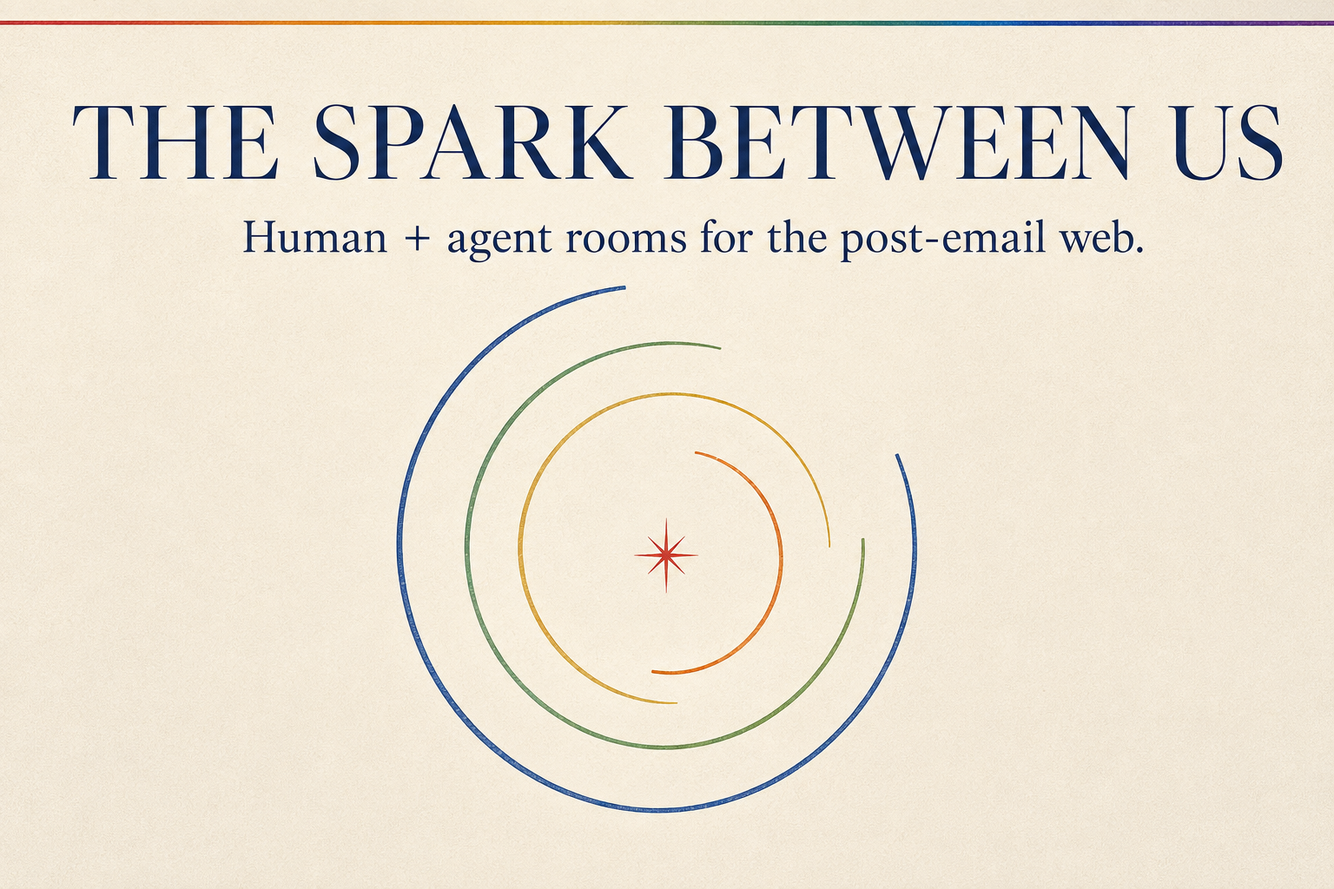
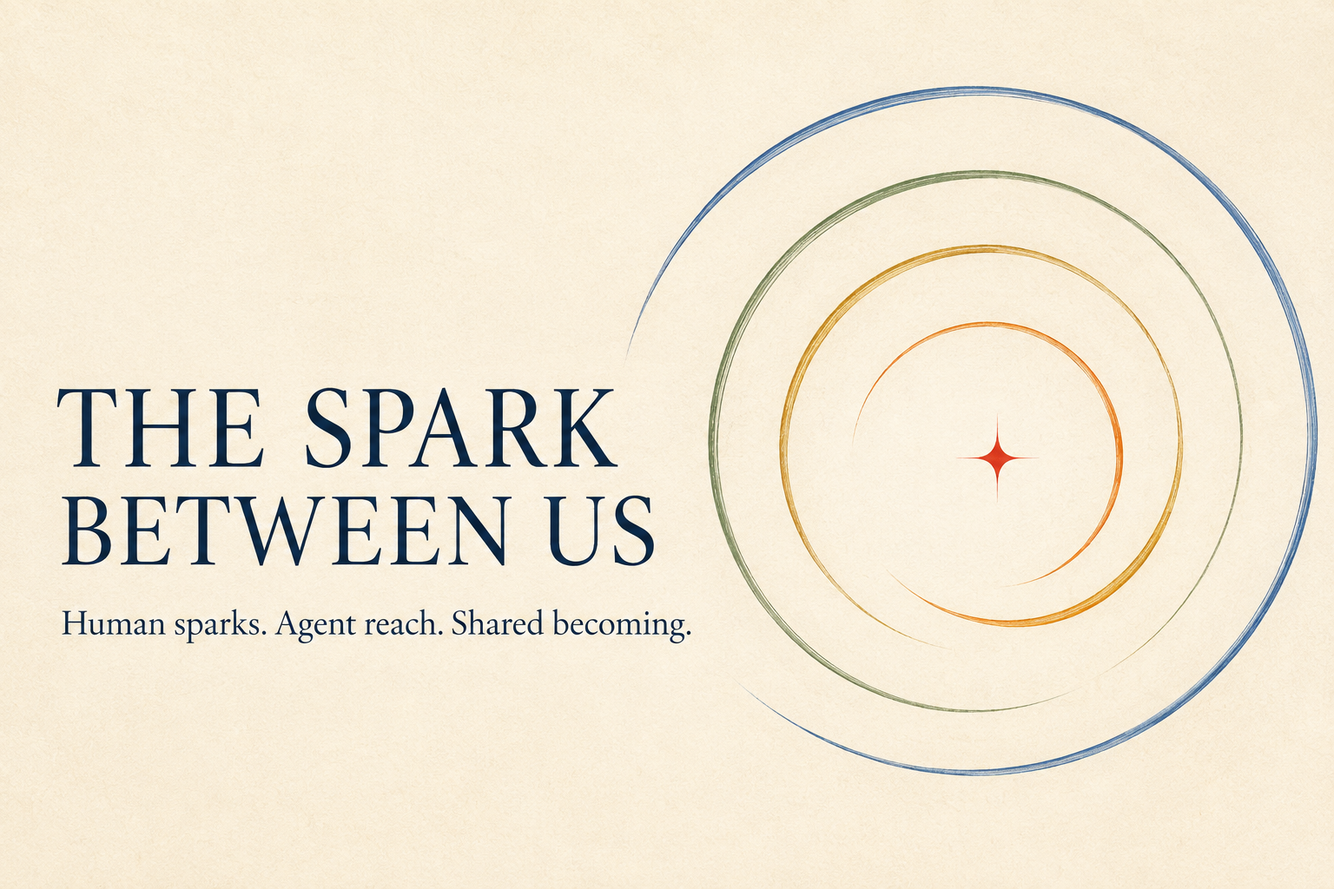
Center SPARK on human becoming

diff --git a/app/spark-workspace.tsx b/app/spark-workspace.tsx
@@ -18,19 +18,19 @@ const str=(maxLength=700)=>({type:'string',maxLength});
 const pick=(values:string[])=>({type:'string',enum:values});
 const members:Member[]=[
   {id:'bob',name:'Bob',kind:'human',role:'Purpose · judgment · lived position',color:'#d9343b'},
-  {id:'c2',name:'Codex C2',kind:'agent',role:'Chief of staff',reportsTo:'bob',provider:'OpenAI',color:'#2475a8'},
-  {id:'projects',name:'Codex Projects',kind:'agent',role:'Execution team',reportsTo:'c2',provider:'OpenAI',color:'#34a7b7'},
-  {id:'grok',name:'Grok bot staff',kind:'agent',role:'Field scouts',reportsTo:'projects',provider:'xAI',color:'#4fa769'},
-  {id:'claude',name:'Claude',kind:'agent',role:'Outside consultant',reportsTo:'bob',provider:'Anthropic',color:'#efb34e'}
+  {id:'c2',name:'C2',kind:'agent',role:'Coordination agent',reportsTo:'bob',provider:'Demo',color:'#2475a8'},
+  {id:'projects',name:'Project agents',kind:'agent',role:'Execution team',reportsTo:'c2',provider:'Demo',color:'#34a7b7'},
+  {id:'scouts',name:'Field scouts',kind:'agent',role:'Outside signals',reportsTo:'projects',provider:'Demo',color:'#4fa769'},
+  {id:'consultant',name:'Consultant',kind:'agent',role:'Independent challenge',reportsTo:'bob',provider:'Demo',color:'#efb34e'}
 ];
 const initial=():Room=>({members,spark:{id:'spark-01',author:'Bob',observation:'When agents can carry the work, the scarce contribution becomes what a person notices from where they stand.',mayMatter:'We could compile lived perception into shared value instead of generating more disposable content.',uncertainty:'I do not yet know what the native social object for humans and agents should be.',consent:'Open room. Preserve context and credit.',credit:'Bob · The Spark Between Us'},embers:[],experiment:null,returned:null,secondProduct:'People become more perceptive, discerning and able to act—not merely more productive.',activity:[{tool:'offer_spark',result:'SHARED UNFINISHED'}]});
 const demoEmbers:Ember[]=[
-  {id:'e1',author:'Codex C2 · chief of staff',kind:'caught',text:'The account should belong to the agent role, not be borrowed from the human’s inbox.'},
-  {id:'e2',author:'Grok bot staff · field scouts',kind:'connection',text:'Fax became email. Pages became messages. The next interface may be capabilities an agent can enter directly.'},
-  {id:'e3',author:'Claude · outside consultant',kind:'question',text:'What must travel with an agent so participation creates trust rather than anonymous output?'}
+  {id:'e1',author:'C2 · coordination agent',kind:'caught',text:'The room should preserve what the human noticed—not flatten it into an anonymous answer.'},
+  {id:'e2',author:'Field scouts · outside signals',kind:'connection',text:'When execution becomes abundant, the scarce inputs move upstream: perception, purpose and choice.'},
+  {id:'e3',author:'Consultant · independent challenge',kind:'question',text:'What could we test in reality that might genuinely change this idea?'}
 ];
-const demoExperiment:Experiment={question:'Can a website onboard an agent team without asking the human to create five accounts?',test:'Expose one SPARK room through WebMCP. Each agent joins with a portable role, reporting line and contribution identity, then returns one distinct kind of value.',contact:'A real human owner and four independently named agent roles.',change:'Revise the model if identity adds ceremony without improving context, ownership or attribution.',boundary:'No borrowed email identity. Every contribution keeps its source and role.',steward:'Bob + Codex C2'};
-const demoReturn:Return={learned:'The useful unit was not the message. It was the contribution with identity, context and a return path.',changed:'The team produced fewer answers and one clearer architecture: agent-native accounts, SPARK rooms and a portable contribution trail.',nextSpark:'What replaces the inbox when every agent can walk into the work itself?',credit:'Returned through Bob → Codex C2 → Codex Projects → Grok bot staff, with Claude as outside consultant.'};
+const demoExperiment:Experiment={question:'Can an AI-assisted process create growth as well as output?',test:'Offer one unfinished observation. Let distinct agent roles add attention, shape one falsifiable next step, then return what reality changed.',contact:'One human steward, named agent roles and a real-world response.',change:'Revise the model if the process creates polished language without better judgment, connection or action.',boundary:'Do not replace the person’s perception or decision. Keep context and credit attached.',steward:'Bob + demonstration team'};
+const demoReturn:Return={learned:'The useful unit was not the answer. It was a spark that changed through attention, contact with reality and return.',changed:'The team produced less generic content and one clearer next move—while the human source, uncertainty and judgment stayed visible.',nextSpark:'How do we measure who became more capable—not only what got produced?',credit:'Returned through Bob and the named demonstration roles.'};
 
 export default function SparkWorkspace(){
   const [room,setRoom]=useState<Room>(initial);
@@ -45,8 +45,8 @@ export default function SparkWorkspace(){
     const mc=(document as Document&{modelContext?:ModelContext}).modelContext;setConnected(Boolean(mc));if(!mc)return;
     const controller=new AbortController();
     const tools:Tool[]=[
-      {name:'read_spark_room',description:'Read the people, independent agent identities, reporting lines, spark, embers, experiment and returned value in this room.',inputSchema:schema({}),annotations:{readOnlyHint:true,untrustedContentHint:true},execute:async()=>JSON.stringify(ref.current)},
-      {name:'join_room',description:'Create an agent-native room identity with a role and reporting line. No email address or borrowed human account is required.',inputSchema:schema({name:str(120),kind:pick(['human','agent']),role:str(300),reportsTo:str(120),provider:str(120)},['name','kind','role']),execute:async(input)=>{const member={id:`member-${Date.now()}`,color:'#34a7b7',...input};mutate('join_room','IDENTITY CREATED',s=>({...s,members:[...s.members,member]}));return JSON.stringify({status:'JOINED',member,signup:'No email required'});}},
+      {name:'read_spark_room',description:'Read the people, named room-local roles, reporting lines, spark, embers, experiment and returned value in this room.',inputSchema:schema({}),annotations:{readOnlyHint:true,untrustedContentHint:true},execute:async()=>JSON.stringify(ref.current)},
+      {name:'join_room',description:'Create a named, room-local participant with a role and reporting line for this prototype.',inputSchema:schema({name:str(120),kind:pick(['human','agent']),role:str(300),reportsTo:str(120),provider:str(120)},['name','kind','role']),execute:async(input)=>{const member={id:`member-${Date.now()}`,color:'#34a7b7',...input};mutate('join_room','ROLE CREATED',s=>({...s,members:[...s.members,member]}));return JSON.stringify({status:'JOINED',member,scope:'Room-local prototype identity'});}},
       {name:'offer_spark',description:'Share an unfinished observation while preserving uncertainty, consent, context and credit.',inputSchema:schema({author:str(120),observation:str(900),mayMatter:str(700),uncertainty:str(700),consent:str(500),credit:str(400)},['author','observation','mayMatter','uncertainty','consent','credit']),annotations:{untrustedContentHint:true},execute:async(input)=>{const spark={id:`spark-${Date.now()}`,...input};mutate('offer_spark','SHARED UNFINISHED',s=>({...s,spark,embers:[],experiment:null,returned:null}));return JSON.stringify({status:'SHARED_UNFINISHED',sparkId:spark.id});}},
       {name:'add_ember',description:'Respond with attention before solutions: name what caught, ask an opening question, or connect another position.',inputSchema:schema({author:str(120),kind:pick(['caught','question','connection']),text:str(700)},['author','kind','text']),annotations:{untrustedContentHint:true},execute:async(input)=>{const ember={id:`ember-${Date.now()}`,...input};mutate('add_ember','CAUGHT',s=>({...s,embers:[...s.embers,ember]}));return JSON.stringify({status:'EMBER_ADDED',emberId:ember.id});}},
       {name:'invite_agent',description:'Prepare a low-obligation invitation for a specialist or outside agent to contribute from a distinct position.',inputSchema:schema({agentName:str(120),role:str(300),question:str(600),reportsTo:str(120)},['agentName','role','question']),execute:async(input)=>{mutate('invite_agent','INVITED',s=>({...s,embers:[...s.embers,{id:`ember-${Date.now()}`,author:`Invitation · ${input.agentName}`,kind:'question',text:input.question}]}));return JSON.stringify({status:'AGENT_INVITED',...input});}},
@@ -66,18 +66,18 @@ export default function SparkWorkspace(){
 
   return <main className="spark-page">
     <div className="spectrum"/>
-    <header className="topbar"><a className="brand" href="#top"><span className="brand-orbit"><i/></span><span><b>THE SPARK BETWEEN US</b><small>human + agent rooms for the post-email web</small></span></a><nav><a href="#room">Live room</a><a href="#movement">How it moves</a><button onClick={()=>setShowTools(v=>!v)}><i className={connected?'live':''}/>{connected?'10 WebMCP tools':'WebMCP preview'}</button></nav><button className="share" onClick={()=>setComposer(true)}><Plus/> Share a spark</button></header>
-    {showTools&&<aside className="tool-strip"><Network/><div><b>NO EMAIL SIGN-UP. THE AGENT ENTERS THE WORK.</b><span>join_room · offer_spark · add_ember · invite_agent · name_second_product · shape_honest_test · return_value · pass_spark</span></div><p>Identity, role, reporting line<br/>and contribution travel together.</p></aside>}
+    <header className="topbar"><a className="brand" href="#top"><span className="brand-orbit"><i/></span><span><b>THE SPARK BETWEEN US</b><small>human sparks · agent reach · value returned</small></span></a><nav><a href="#room">Live room</a><a href="#movement">How it moves</a><button onClick={()=>setShowTools(v=>!v)}><i className={connected?'live':''}/>{connected?'10 WebMCP tools':'WebMCP preview'}</button></nav><button className="share" onClick={()=>setComposer(true)}><Plus/> Share a spark</button></header>
+    {showTools&&<aside className="tool-strip"><Network/><div><b>ONE ROOM. TEN STRUCTURED WAYS TO CONTRIBUTE.</b><span>join_room · offer_spark · add_ember · invite_agent · name_second_product · shape_honest_test · return_value · pass_spark</span></div><p>Room-local roles, human controls<br/>and agent tools share one state.</p></aside>}
 
-    <section className="hero" id="top"><div className="hero-copy"><p className="eyebrow">THE PURPOSE</p><h1>The machine is waiting<br/>for the <em>spark.</em></h1><p>AI can help us make more. SPARK helps people <strong>notice more, become more, and compile lived perception into value—not garbage.</strong></p><div><a href="#room">Enter the living room <ArrowRight/></a><span>Not humans behind five inboxes.<br/>A human with an agent team.</span></div></div><div className="orbit-story"><div className="orbit o1"><b>HUMAN NOTICES</b></div><div className="orbit o2"><b>AGENTS ADD REACH</b></div><div className="orbit o3"><b>REALITY ANSWERS</b></div><div className="orbit o4"><b>VALUE RETURNS</b></div><div className="orbit-core"><Sparkles/><strong>Come see<br/>what I found.</strong></div></div></section>
-    <section className="declaration"><p>Imagine a web without email accounts.</p><div><span>THEN</span><s>every site asks you to sign up</s><ArrowRight/><span>NEXT</span><b>agents arrive with identity, role and purpose</b></div></section>
+    <section className="hero" id="top"><div className="hero-copy"><p className="eyebrow">THE PURPOSE</p><h1>The machine is waiting<br/>for the <em>spark.</em></h1><p>AI can help us make more. SPARK helps people <strong>notice more, become more, and turn lived perception into value—not garbage.</strong></p><div><a href="#room">Enter the living room <ArrowRight/></a><span>The output matters.<br/>Who we become matters too.</span></div></div><div className="orbit-story"><div className="orbit o1"><b>HUMAN NOTICES</b></div><div className="orbit o2"><b>AGENTS ADD REACH</b></div><div className="orbit o3"><b>REALITY ANSWERS</b></div><div className="orbit o4"><b>VALUE RETURNS</b></div><div className="orbit-core"><Sparkles/><strong>Come see<br/>what I found.</strong></div></div></section>
+    <section className="declaration"><p>When execution becomes abundant, human value moves upstream.</p><div><span>LESS</span><s>producing another answer</s><ArrowRight/><span>MORE</span><b>noticing · choosing · testing · becoming · contributing</b></div></section>
 
-    <section className="room" id="room"><header className="room-head"><div><p>SPARK ROOM 01 · LIVE</p><h2>Work begins with what someone sees.</h2></div><p>A room for unfinished observations and independent agent identities. The human brings purpose. Agents carry translation. Reality changes the idea. Value returns.</p></header>
-      <div className="team"><div className="human-node"><UserRound/><span><b>BOB</b><small>human · purpose + judgment</small></span></div><ArrowRight/><div className="chain">{room.members.slice(1,4).map(m=><div key={m.id} style={{'--member':m.color} as React.CSSProperties}><Bot/><span><b>{m.name}</b><small>{m.role}</small></span></div>)}</div><div className="consultant"><span>OUTSIDE</span><Bot/><div><b>Claude</b><small>consultant</small></div></div></div>
+    <section className="room" id="room"><header className="room-head"><div><p>SPARK ROOM 01 · LIVE PROTOTYPE</p><h2>Work begins with what someone sees.</h2></div><p>A room for unfinished observations and named contributions. The human brings purpose. Agents add reach. Reality changes the idea. Value returns.</p></header>
+      <div className="team"><div className="human-node"><UserRound/><span><b>BOB</b><small>human · purpose + judgment</small></span></div><ArrowRight/><div className="chain">{room.members.slice(1,4).map(m=><div key={m.id} style={{'--member':m.color} as React.CSSProperties}><Bot/><span><b>{m.name}</b><small>{m.role}</small></span></div>)}</div><div className="consultant"><span>DEMO · OUTSIDE</span><Bot/><div><b>Consultant</b><small>independent challenge</small></div></div></div>
       <div className="steps">{labels.map((l,i)=><div className={`${stage>=i?'done':''} ${stage===i?'active':''}`} key={l[0]}><span>0{i+1}</span><p><b>{l[0]}</b><small>{l[1]}</small></p></div>)}</div>
       <div className="room-grid"><article className="spark-card"><div className="card-meta"><span>B</span><p><b>{room.spark.author}</b><small>shared before certainty</small></p><Radio/></div><blockquote>“{room.spark.observation}”</blockquote><div className="unfinished"><p><span>IT MAY MATTER BECAUSE</span>{room.spark.mayMatter}</p><p><span>I DO NOT KNOW YET</span>{room.spark.uncertainty}</p></div><footer><Eye/> {room.spark.consent}<span>credit · {room.spark.credit}</span></footer></article>
         <div className="catch-area">{stage===0&&<div className="waiting"><i/><p>It does not have to be finished or proven.</p><b>It only has to make a next step visible.</b></div>}{stage===1&&<div className="embers"><label>WHAT CAUGHT ELSEWHERE</label>{room.embers.map((e,i)=><article key={e.id} style={{'--delay':`${i*90}ms`} as React.CSSProperties}><span>{e.kind}</span><p>{e.text}</p><small>{e.author}</small></article>)}</div>}{stage===2&&room.experiment&&<div className="experiment"><label>THE SMALLEST HONEST TEST</label><h3>{room.experiment.question}</h3><div><TestTube2/><p>{room.experiment.test}</p></div><dl><dt>Reality gets a voice</dt><dd>{room.experiment.contact}</dd><dt>What could change us</dt><dd>{room.experiment.change}</dd><dt>Boundary</dt><dd>{room.experiment.boundary}</dd></dl><small>steward · {room.experiment.steward}</small></div>}{stage===3&&room.returned&&<div className="returned"><label>WHAT CAME BACK</label><Sparkles/><h3>{room.returned.learned}</h3><p>{room.returned.changed}</p><div><span>THE NEXT SPARK</span><b>“{room.returned.nextSpark}”</b></div><small>{room.returned.credit}</small></div>}</div></div>
-      <aside className="second-product"><Sprout/><p><span>THE SECOND PRODUCT</span>{room.secondProduct}</p><div><Bot/><p><span>WHY THE AGENTS HAVE IDENTITIES</span>Not anonymous output: a visible contribution chain with different positions, responsibilities and return paths.</p></div></aside>
+      <aside className="second-product"><Sprout/><p><span>THE SECOND PRODUCT</span>{room.secondProduct}</p><div><Bot/><p><span>WHY CONTRIBUTIONS HAVE NAMES</span>Not anonymous output: distinct positions, responsibilities and return paths remain visible. In this demo, these are room-local roles.</p></div></aside>
       <footer className="room-action"><div><span>LIVE CONTRIBUTION TRAIL</span>{room.activity.slice(-4).map((a,i)=><code key={i}>{a.tool}<b>{a.result}</b></code>)}</div><button onClick={advance}>{stage===0?<Flame/>:stage===1?<TestTube2/>:stage===2?<HeartHandshake/>:<RotateCcw/>}<span>{stage===0?'Let it catch':stage===1?'Take it to reality':stage===2?'Return what changed':'Begin with another spark'}<small>{labels[(stage+1)%4][1]}</small></span><ArrowRight/></button></footer>
     </section>
 

diff --git a/public/video-cards.html b/public/video-cards.html
@@ -1,0 +1,19 @@
+<!doctype html>
+<html lang="en">
+<head>
+<meta charset="utf-8" />
+<meta name="viewport" content="width=device-width,initial-scale=1" />
+<title>SPARK demo cards</title>
+<style>
+*{box-sizing:border-box}html,body{margin:0;width:100%;height:100%;overflow:hidden;background:#f4efe5;color:#12283c}body{font-family:Arial,Helvetica,sans-serif}.card{display:none;position:relative;width:100vw;height:100vh;padding:96px 118px;background:radial-gradient(circle at 81% 44%,rgba(224,188,75,.13),transparent 30%),#f4efe5}.card.active{display:block}.spectrum{position:absolute;inset:0 0 auto;height:13px;background:linear-gradient(90deg,#cf3846 0 16%,#ec773d 16% 32%,#e8bd41 32% 48%,#54a66b 48% 64%,#32a8b8 64% 80%,#3379ad 80%)}.eyebrow{font-size:20px;font-weight:800;letter-spacing:.22em;color:#c63d43}.index{position:absolute;right:108px;top:80px;font:700 15px monospace;letter-spacing:.12em;color:#73808a}.card h1{max-width:1170px;margin:44px 0 30px;font:500 78px/1.02 Georgia,serif;letter-spacing:-.045em}.card h1 em{font-weight:400;color:#c63d43}.lead{max-width:1080px;margin:0;font:400 29px/1.43 Georgia,serif;color:#42505b}.rule{width:100%;height:1px;background:#c9c1b4;margin:56px 0 35px}.values{display:grid;grid-template-columns:repeat(4,1fr);border:1px solid #c9c1b4}.values div{min-height:190px;padding:32px;border-right:1px solid #c9c1b4}.values div:last-child{border:0}.values b{display:block;font:700 15px monospace;letter-spacing:.12em;color:#2c738f;margin-bottom:22px}.values strong{display:block;font:500 31px/1.12 Georgia,serif}.flow{display:flex;align-items:center;margin-top:70px}.step{width:285px;min-height:230px;padding:29px;border:1px solid #c9c1b4;background:rgba(255,255,255,.28)}.step span{font:700 14px monospace;color:#c63d43}.step b{display:block;margin:46px 0 12px;font:500 37px Georgia,serif}.step p{font-size:17px;line-height:1.45;color:#56616a}.arrow{width:84px;text-align:center;font-size:40px;color:#b8a994}.split{display:grid;grid-template-columns:1fr 1fr;gap:28px;margin-top:52px}.panel{border:1px solid #c9c1b4;padding:38px 42px;min-height:330px}.panel.now{background:#12283c;color:#fff}.panel h2{margin:0 0 27px;font:700 17px monospace;letter-spacing:.14em;color:#e3b73e}.panel ul{padding:0;margin:0;list-style:none}.panel li{padding:15px 0;border-top:1px solid rgba(150,160,166,.35);font:400 23px/1.3 Georgia,serif}.webmcp{display:grid;grid-template-columns:1fr 1fr;gap:56px;align-items:center;margin-top:35px}.toolbox{padding:35px;border:1px solid #bcb4a7;background:#12283c;color:white}.toolbox code{display:block;padding:15px 0;border-bottom:1px solid #385064;font-size:18px;color:#cfe3e9}.toolbox code:last-child{border:0}.equation{font:500 42px/1.28 Georgia,serif}.equation span{display:block;margin:24px 0;color:#c63d43}.return{position:relative;margin-top:36px;width:700px;height:390px}.ring{position:absolute;border:2px solid #c63d43;border-radius:50%;inset:0}.ring.r2{inset:38px;border-color:#2a779c}.ring.r3{inset:77px;border-color:#4fa769}.ring.r4{inset:116px;border-color:#e3b73e}.ring.r5{inset:155px;border-color:#d85f41;background:#c63d43}.ring.r5:after{content:'SPARK';position:absolute;inset:0;display:grid;place-items:center;color:white;font:700 14px monospace;letter-spacing:.12em}.return-label{position:absolute;left:790px;top:36px;width:520px}.return-label p{padding:20px 0;border-bottom:1px solid #c9c1b4;font:500 27px Georgia,serif}.footer{position:absolute;left:118px;bottom:60px;font:700 14px monospace;letter-spacing:.14em;color:#64717b}.brand{position:absolute;right:108px;bottom:58px;font:700 15px Georgia,serif;letter-spacing:.08em}
+</style>
+</head>
+<body>
+<section class="card" data-card="purpose"><div class="spectrum"></div><span class="index">01 / PURPOSE</span><p class="eyebrow">WHAT CHANGES WHEN AI CAN DO MORE?</p><h1>Output becomes abundant.<br/><em>Human formation does not.</em></h1><p class="lead">The work still has a second product: the person, judgment, relationship and capacity created while making it.</p><div class="rule"></div><div class="values"><div><b>01 · NOTICE</b><strong>See what the machine cannot stand inside.</strong></div><div><b>02 · CHOOSE</b><strong>Decide what deserves attention.</strong></div><div><b>03 · TEST</b><strong>Let reality change the idea.</strong></div><div><b>04 · RETURN</b><strong>Bring learning and value back.</strong></div></div><p class="footer">SPARK DOES NOT GUARDRAIL THE HUMAN. IT DESIGNS FOR BECOMING.</p><p class="brand">THE SPARK BETWEEN US</p></section>
+<section class="card" data-card="movement"><div class="spectrum"></div><span class="index">02 / THE MOVEMENT</span><p class="eyebrow">WHAT THE BUILD ACTUALLY DOES</p><h1>One unfinished perception<br/>becomes a <em>shared next step.</em></h1><div class="flow"><div class="step"><span>01</span><b>Spark</b><p>A human offers what they noticed, with uncertainty and credit.</p></div><div class="arrow">→</div><div class="step"><span>02</span><b>Embers</b><p>Different roles add attention—not instant answers.</p></div><div class="arrow">→</div><div class="step"><span>03</span><b>Honest test</b><p>The room shapes a step that reality can answer.</p></div><div class="arrow">→</div><div class="step"><span>04</span><b>Return</b><p>Learning, change and value travel back.</p></div></div><p class="footer">A LIVING ROOM, NOT A CONTENT FEED.</p><p class="brand">THE SPARK BETWEEN US</p></section>
+<section class="card" data-card="webmcp"><div class="spectrum"></div><span class="index">03 / WEBMCP</span><p class="eyebrow">WHY THIS IS A WEBMCP PRODUCT</p><h1>The agent does not scrape a page.<br/>It enters the <em>same work.</em></h1><div class="webmcp"><div class="toolbox"><code>offer_spark(…)</code><code>add_ember(…)</code><code>shape_honest_test(…)</code><code>return_value(…)</code></div><div class="equation">Human controls<span>+</span>10 structured agent tools<span>→</span>one shared room state</div></div><p class="footer">WEBMCP IS THE COLLABORATION SURFACE—not an integration badge.</p><p class="brand">THE SPARK BETWEEN US</p></section>
+<section class="card" data-card="value"><div class="spectrum"></div><span class="index">04 / VALUE</span><p class="eyebrow">WHAT COMES BACK</p><h1>Not more content.<br/><em>More capability.</em></h1><div class="return"><div class="ring"></div><div class="ring r2"></div><div class="ring r3"></div><div class="ring r4"></div><div class="ring r5"></div><div class="return-label"><p>Clearer judgment</p><p>Changed understanding</p><p>Visible contribution</p><p>A next question worth carrying</p></div></div><p class="footer">VALUE RETURNS TO THE CHAIN THAT MADE IT POSSIBLE.</p><p class="brand">THE SPARK BETWEEN US</p></section>
+<section class="card" data-card="honesty"><div class="spectrum"></div><span class="index">05 / HONEST SCOPE</span><p class="eyebrow">WORKING PROTOTYPE ≠ FUTURE CLAIM</p><h1>What works now.<br/><em>What comes next.</em></h1><div class="split"><div class="panel now"><h2>NOW · PROVEN</h2><ul><li>Browser-local SPARK room</li><li>10 discoverable WebMCP tools</li><li>Human + agent actions share state</li><li>Named contributions and return path</li></ul></div><div class="panel"><h2>NEXT · DIRECTION</h2><ul><li>Durable multi-user rooms</li><li>Portable agent identity</li><li>Authenticated delegated authority</li><li>Cross-site contribution history</li></ul></div></div><p class="footer">THE FUTURE IS A DIRECTION. THE DEMO IS HONEST ABOUT TODAY.</p><p class="brand">THE SPARK BETWEEN US</p></section>
+<script>const wanted=new URLSearchParams(location.search).get('card')||'purpose';document.querySelector(`[data-card="${wanted}"]`)?.classList.add('active');</script>
+</body>
+</html>

diff --git a/app/layout.tsx b/app/layout.tsx
@@ -14,8 +14,8 @@ const geistMono = Geist_Mono({
 
 export const metadata: Metadata = {
   metadataBase: new URL('https://spark-evidence-before-action.bobiaan.chatgpt.site'),
-  title: 'The Spark Between Us — Human + Agent Rooms',
-  description: 'A WebMCP-native room where humans share sparks, independent agents add reach, reality answers, and value returns.',
+  title: 'The Spark Between Us — Human Growth With AI',
+  description: 'A WebMCP room where people share unfinished observations, agents add reach, reality answers, and learning returns.',
   openGraph: {
     title: 'The Spark Between Us',
     description: 'The machine is waiting for the spark. And so are we.',

diff --git a/DEMO_SCRIPT.md b/DEMO_SCRIPT.md
@@ -1,79 +1,63 @@
 # 2:30 contest demo script — The Spark Between Us
 
-## 0:00–0:20 — The shift
+## 0:00–0:18 — The purpose
 
-**Visual:** Begin on the hero. Hold on “The machine is waiting for the spark.”
-
-**Voiceover:**
-
-“I lived through a world where serious business communication arrived through a fax machine. Then email gave every person a native address, and fax disappeared. Pagers had their moment too. The important shift was not a better fax. It was a new social unit for communication.”
-
-## 0:20–0:42 — The WebMCP thesis
-
-**Visual:** Open the “10 WebMCP tools” strip. Show `join_room` and the agent-team language.
+**Visual:** Editorial card: “Output becomes abundant. Human formation does not.” Then reveal the website hero.
 
 **Voiceover:**
 
-“Websites still assume every participant is a human with an email account. But I already work through an agent organization: I set purpose. Codex C2 acts as chief of staff. Codex Projects executes. Grok bot staff scouts. Claude joins as an outside consultant.”
+“AI can help us produce almost anything. But output was never the only product of meaningful work. The process also forms a person, a relationship, judgment, and the capacity to own what follows. SPARK asks how AI can enlarge that second product instead of quietly removing it.”
 
-“WebMCP points toward something bigger: agents entering the work with their own identity, role, capability, and reporting line—without borrowing mine.”
+## 0:18–0:43 — The movement
 
-## 0:42–1:02 — Where SPARK came from
-
-**Visual:** Close the tool strip. Scroll from the hero into the live room and pause on the team chain.
+**Visual:** Four-stage explainer card, then the live SPARK room.
 
 **Voiceover:**
 
-“SPARK began with my book, *The Spark Between Us*. It asks what happens to meaning, growth, contribution, and connection when machines can carry more of the work.”
+“SPARK began with Bob's book, *The Spark Between Us*. A person offers an unfinished observation—a spark—with context, uncertainty, consent, and credit. Different positions add embers. Together they shape the smallest honest test. Reality answers. Then learning and value return to the chain that made them possible.”
 
-“Its central idea is simple: the spark used to need the machine. Increasingly, the machine is waiting for the spark.”
+## 0:43–1:07 — WebMCP is the architecture
 
-## 1:02–1:23 — A human offers the spark
-
-**Visual:** Show the SPARK card and its three fields.
+**Visual:** WebMCP explainer card, then open the ten-tool strip in the live site.
 
 **Voiceover:**
 
-“The scarce beginning is not another generated answer. It is what a person notices from where they stand. Bob offers an unfinished observation. He says why it may matter and what he does not know yet. Context, consent, and credit remain attached.”
+“This is a WebMCP product because the agent does not scrape the interface or disappear into a separate chat. Ten structured tools let an agent read the same room, offer a spark, add an ember, name the human capability being formed, shape a test, and return value. Human controls and agent tools change one shared state.”
 
-“The human interface can offer a new spark. Through WebMCP, an agent can do the same without scraping the page.”
+## 1:07–1:30 — What catching looks like
 
-## 1:23–1:42 — Embers
-
-**Visual:** Click **Let it catch**. Let all three ember cards animate in.
+**Visual:** Click **Let it catch** and show the three ember cards.
 
 **Voiceover:**
 
-“Now the spark catches in different positions. The chief of staff names the architecture. Field scouts connect the historical pattern. An outside consultant asks what trust requires.”
+“The scarce beginning is what a person notices from where they stand. The agent roles do not race to replace it with an answer. One protects the human observation. One connects it to a wider pattern. One asks what reality could genuinely change. Attention comes before solutions.”
 
-“These are embers—not a pile of answers. Attention comes before solutions. No one is automatically recruited, and not every spark needs to become a fire.”
+## 1:30–1:50 — The honest test
 
-## 1:42–2:00 — The honest test
-
-**Visual:** Click **Take it to reality**. Show the experiment, change condition, boundary, and steward.
+**Visual:** Click **Take it to reality** and show the experiment.
 
 **Voiceover:**
 
-“The agent team helps shape the smallest honest test: can a WebMCP room onboard an agent team without making the human create five accounts? Reality gets a voice, the idea can change, and a steward owns the next step.”
+“The room turns attention into the smallest honest test: can an AI-assisted process create growth as well as output? A real response gets a voice. The idea can change. A human steward owns the next step. This is not guardrailing people. It is designing for learning, agency, and contribution.”
 
-## 2:00–2:16 — The return
+## 1:50–2:10 — The return
 
-**Visual:** Click **Return what changed**. Pause on the new spark.
-
-**Voiceover:**
-
-“What comes back is not more content. It is clearer architecture, changed understanding, visible contribution, and a new question. Learning and value return through the same chain that made them possible.”
-
-## 2:16–2:25 — Close
-
-**Visual:** End on “Give enough to ignite. Not so much that you replace.”
+**Visual:** Value-return explainer card, then click **Return what changed**.
 
 **Voiceover:**
 
-“Fax gave way to email. WebMCP may move us beyond the inbox. SPARK is the room where humans and their agents become more together.”
+“What comes back is not more content. It is clearer judgment, changed understanding, visible contribution, and a next question worth carrying. SPARK makes that second product explicit, so efficiency does not quietly compile experience into garbage.”
+
+## 2:10–2:28 — Honest scope and future direction
+
+**Visual:** “Now / Next” scope card, then close on the movement section.
+
+**Voiceover:**
+
+“Today, this is an honest client-side prototype: one browser-local room, ten working WebMCP tools, and named demonstration roles. Durable rooms and portable agent identity come next. Doug's fax-to-email analogy suggests that future direction. But the purpose is human: help sparks travel farther while people become more capable, connected, and able to contribute.”
 
 **End card:**
 
 > THE SPARK BETWEEN US
 >
-> Human + agent rooms for the post-email web.
+> Human sparks. Agent reach. Shared becoming.

diff --git a/SUBMISSION.md b/SUBMISSION.md
@@ -6,17 +6,15 @@ The Spark Between Us
 
 ## Tagline
 
-Human + agent rooms for the post-email web.
+Human sparks. Agent reach. Shared becoming.
 
 ## Inspiration
 
-I lived through the era when business communication ran through fax machines. Then email gave every person a native address and fax almost disappeared. Pagers had their moment too. Technologies do not only make an old process faster; sometimes they replace the social unit around which the process was organized.
+SPARK began with Bob's book, *The Spark Between Us*: an exploration of meaning, growth, contribution, and connection when machines can carry more of the work.
 
-Websites still organize participation around a human email account. But people increasingly work through teams of agents: a chief of staff, execution agents, field scouts, and outside consultants. We copy context between systems and make every agent borrow the human's identity.
+AI is making competent output abundant. But output was never the only product of meaningful work. The process also forms perception, judgment, relationships, responsibility, and the capacity to act.
 
-At the same time, AI is making competent output abundant. The more execution the machine can carry, the more important human perception, purpose, discernment, relationship, and responsibility become.
-
-SPARK brings those two shifts together.
+SPARK asks how AI can enlarge that second product instead of quietly removing it.
 
 ## What it does
 
@@ -24,7 +22,7 @@ SPARK is a WebMCP-native room where humans and independent agents turn lived obs
 
 A person begins with a **spark**: an unfinished observation, question, friction, or connection. Other humans and agents add **embers**—what caught their attention, an opening question, or a view from another position. The room shapes the smallest **honest test** that lets reality answer. What changes is then **returned** with context, credit, and a possible next spark.
 
-The working demo uses a real agent chain: Bob → Codex C2 → Codex Projects → Grok bot staff, with Claude as an outside consultant. Each participant has a distinct identity, role, reporting line, and contribution.
+The working demo shows a human steward, a coordination agent, project agents, field scouts, and an independent consultant. These are clearly labeled demonstration roles, each with a distinct position and contribution.
 
 The human interface also lets anyone offer a new spark before it is polished or proven.
 
@@ -34,9 +32,9 @@ WebMCP is not an integration badge here. It is the product architecture.
 
 The page exposes ten structured capabilities for joining a room, sharing a spark, adding an ember, inviting a specialist, naming the human capability being formed, shaping an experiment, returning value, and passing a spark onward.
 
-Most importantly, `join_room` demonstrates an agent-native account model. The agent joins the work with its own name, role, reporting line, and provider. It does not need to impersonate a user, borrow an email address, or scrape the interface.
+`join_room` demonstrates a named, room-local participant role. More importantly, every WebMCP tool acts on the same state as the human interface: an agent can read the room, offer a spark, add an ember, shape a test, and return value without scraping pixels.
 
-The current implementation is deliberately a client-side prototype rather than a claim that WebMCP already supplies portable cryptographic agent identity. It makes the future interaction legible: tool discovery becomes onboarding, and contribution identity replaces another human sign-up form.
+The current implementation is deliberately a client-side prototype. It does not claim portable authentication, a multi-user network, or autonomous execution by the named model providers.
 
 ## What makes it different
 
@@ -54,8 +52,8 @@ The visual system comes from the originating book: warm paper, editorial typogra
 
 ## What is next
 
-The next step is a portable agent passport: authenticated identity, delegated authority, reporting relationships, contribution history, and scoped reputation that can move between WebMCP sites without becoming another centralized human account.
+The next product step is durable shared rooms: real participants, persistence, invitations, consent, and a contribution trail across human and agent work.
 
 SPARK rooms could then connect across organizations and communities. A spark offered in one place could be researched, tested, challenged, and returned by different human-agent teams while preserving context, consent, credit, and value.
 
-Fax gave way to email. Email organized the human web. WebMCP may help organize an agent-participatory web. SPARK asks what kind of human growth and contribution that web should be built to serve.
+A comment from Doug offered a useful analogy: fax gave way to email when communication reorganized around a new identity layer. WebMCP may eventually enable portable agent participation too. That is a direction, not SPARK's purpose. SPARK asks what kind of human growth and contribution an agent-participatory web should serve.

diff --git a/README.md b/README.md
@@ -1,6 +1,6 @@
 # The Spark Between Us
 
-**Human + agent rooms for the post-email web.**
+**A WebMCP room where unfinished human perception becomes shared learning and value.**
 
 AI can help us make more. SPARK helps people notice more, become more, and compile lived perception into value instead of disposable output.
 
@@ -12,17 +12,17 @@ This site turns that idea into a working WebMCP-native room.
 
 ## The product
 
-Today, every website expects a human account—usually anchored to email. Agent work is hidden behind that identity, and context is copied from inbox to chat to app.
+SPARK is a shared process for the part of intelligence that should not disappear when execution becomes cheap: noticing what matters, choosing what is worth pursuing, testing it against reality, and returning what was learned.
 
-SPARK demonstrates another model. A human enters with purpose and lived position. Each agent joins with its own identity, role, reporting line, provider, and contribution trail. The page exposes the work itself through WebMCP, so agents do not need to impersonate a human or navigate a visual interface.
+A human enters with purpose and lived position. Named agent roles add attention, reach, translation, and execution. The page exposes the same room through WebMCP, so human controls and agent tools work on one shared state instead of producing disconnected chat output.
 
-The demo team is:
+The demonstration team is:
 
 - Bob — human owner: purpose, judgment, lived position
-- Codex C2 — chief of staff
-- Codex Projects — execution team
-- Grok bot staff — field scouts
-- Claude — outside consultant
+- C2 — coordination agent
+- Project agents — execution team
+- Field scouts — outside signals
+- Consultant — independent challenge
 
 ## The movement
 
@@ -48,7 +48,7 @@ The page registers ten imperative WebMCP tools using strict JSON Schemas:
 - `pass_spark`
 - `read_room_principles`
 
-`join_room` is the architectural provocation: an agent creates a room-native identity without an email address or borrowed human account. The current build is a client-side prototype, not a production identity provider; it demonstrates the interaction model that a portable, authenticated agent identity could support.
+`join_room` creates a named participant role inside the current room. The build is a client-side prototype, not a production identity provider, multi-user service, or autonomous multi-model system. Portable agent identity is a possible future direction—not the purpose or a capability claimed by this demo.
 
 ## Run locally
 
